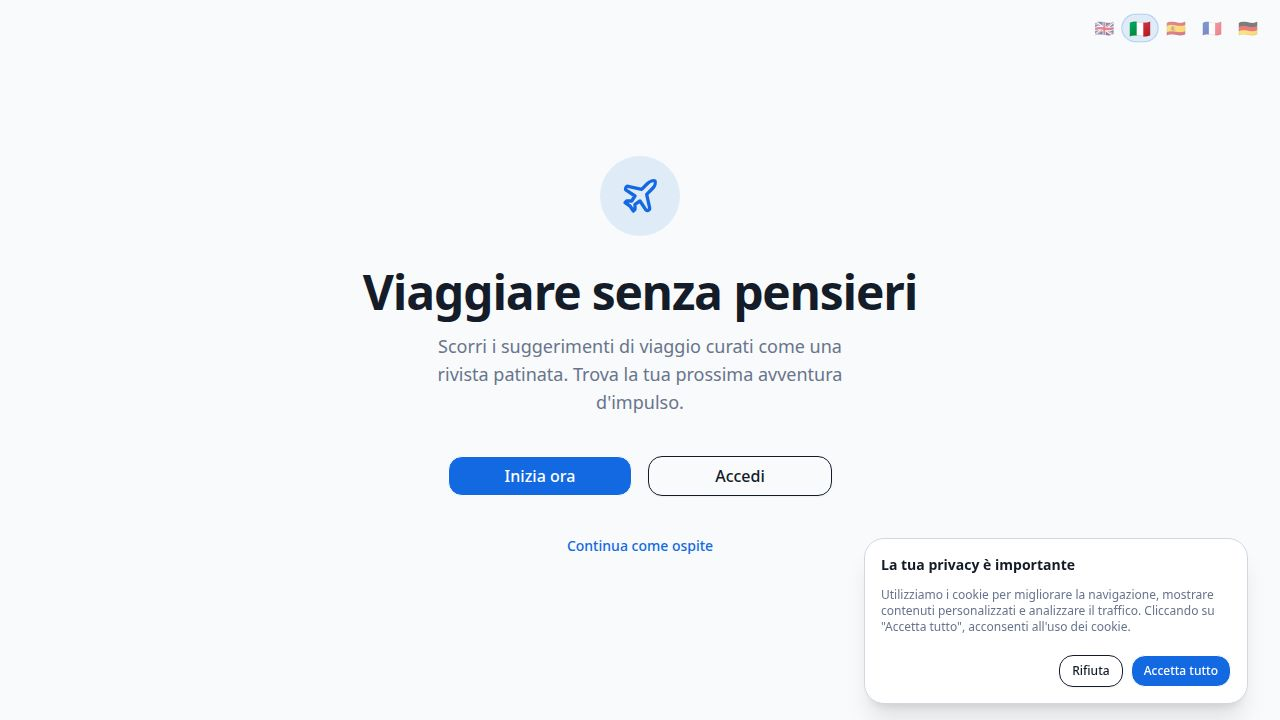
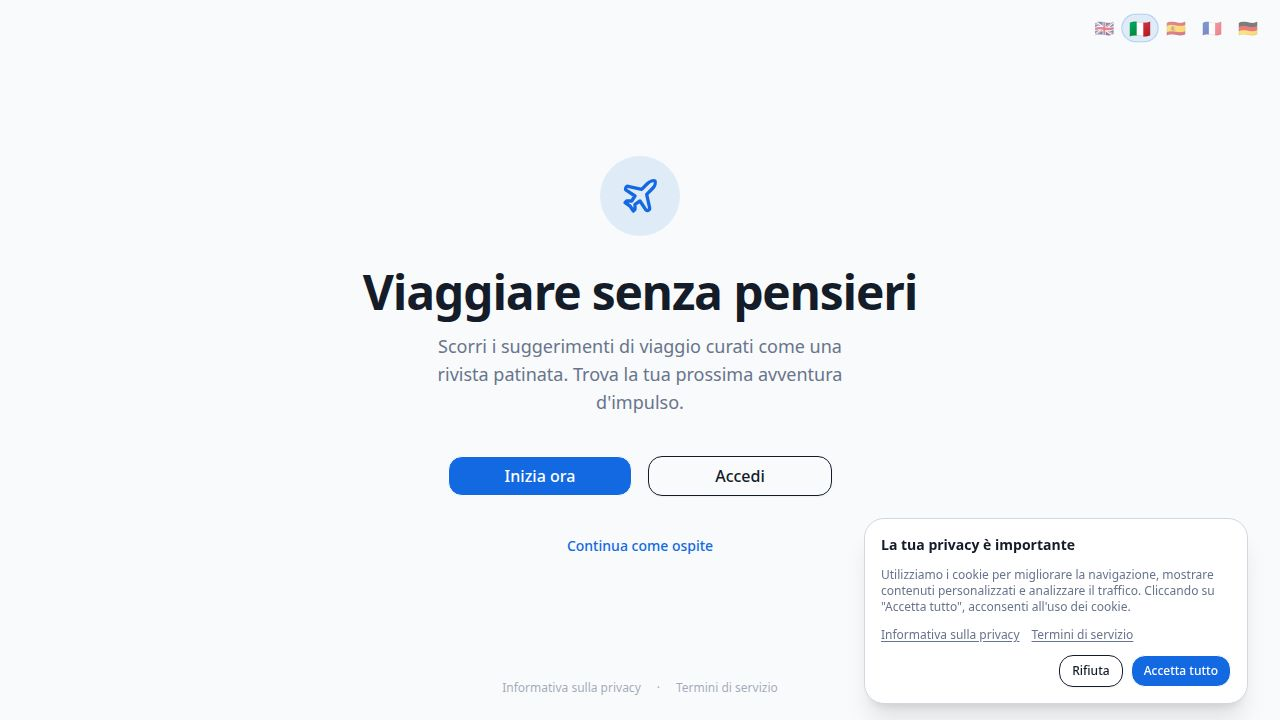
Add option to filter travel suggestions by trip type
Introduce functionality to select between one-way and round-trip travel, updating the API, frontend filters, and trip display components.

Replit-Commit-Author: Agent
Replit-Commit-Session-Id: 40b31528-361d-451d-a8f7-576f1d67a335
Replit-Commit-Checkpoint-Type: full_checkpoint
Replit-Commit-Event-Id: 321ee5e5-2d45-4310-8121-b1066c58884b
Replit-Commit-Screenshot-Url: https://storage.googleapis.com/screenshot-production-us-central1/23379c2e-90ad-4d48-a1c6-92208504a3e2/40b31528-361d-451d-a8f7-576f1d67a335/61Y89dv
Replit-Helium-Checkpoint-Created: true

Changed region(s): [[0.6875, 0.7333, 0.9688, 0.8861], [0.4062, 0.9472, 0.5, 0.9778], [0.5312, 0.9472, 0.5938, 0.9778]]

diff --git a/artifacts/travel-budget/src/components/filter-panel.tsx b/artifacts/travel-budget/src/components/filter-panel.tsx
@@ -38,6 +38,7 @@ export interface TripFilters {
   onlinePayment: boolean;
   elevator: boolean;
   petFriendly: boolean;
+  tripType: "one_way" | "round_trip";
 }
 
 export const DEFAULT_FILTERS: TripFilters = {
@@ -68,6 +69,7 @@ export const DEFAULT_FILTERS: TripFilters = {
   onlinePayment: false,
   elevator: false,
   petFriendly: false,
+  tripType: "round_trip",
 };
 
 export function countActiveFilters(f: TripFilters): number {
@@ -98,6 +100,7 @@ export function countActiveFilters(f: TripFilters): number {
   if (f.onlinePayment) n++;
   if (f.elevator) n++;
   if (f.petFriendly) n++;
+  if (f.tripType === "one_way") n++;
   return n;
 }
 
@@ -114,6 +117,7 @@ export function FilterBar({
   const departure = filters.departureAirport || filters.departureStation || "";
 
   const chips: string[] = [];
+  if (filters.tripType === "one_way") chips.push(`✈️ ${t.filters.oneWay}`);
   if (filters.numberOfChildren > 0) chips.push(`${filters.numberOfChildren} ${t.filters.children.toLowerCase()}`);
   if (filters.numberOfPets > 0) chips.push(`${filters.numberOfPets} ${t.filters.pets.toLowerCase()}`);
   if (filters.flightPreference === "direct") chips.push(t.filters.directOnly);
@@ -199,7 +203,7 @@ export function FilterSheet({
     if (!dep) errs["departure"] = t.filters.missingDeparture;
     if (!arr) errs["arrival"] = t.filters.missingArrival;
     if (!f.departureDate) errs["departureDate"] = t.filters.missingDepartureDate;
-    if (!f.returnDate) errs["returnDate"] = t.filters.missingReturnDate;
+    if (f.tripType !== "one_way" && !f.returnDate) errs["returnDate"] = t.filters.missingReturnDate;
 
     if (f.departureDate && f.returnDate && f.returnDate < f.departureDate) {
       errs["returnDate"] = t.filters.returnBeforeDeparture;
@@ -271,6 +275,35 @@ export function FilterSheet({
         </SheetHeader>
 
         <div ref={contentRef} className="flex-1 overflow-y-auto px-5 py-4 space-y-6">
+
+          {/* ── Tipo viaggio ─────────────────────────────────── */}
+          <div className="space-y-3">
+            <p className="text-sm font-semibold text-foreground">{t.filters.tripTypeLabel}</p>
+            <div className="flex gap-2">
+              {(["round_trip", "one_way"] as const).map((v) => (
+                <button
+                  key={v}
+                  onClick={() => {
+                    setDraft((prev) => ({
+                      ...prev,
+                      tripType: v,
+                      ...(v === "one_way" ? { returnDate: "" } : {}),
+                    }));
+                  }}
+                  className={`flex-1 py-3 rounded-xl border text-sm font-semibold transition-colors ${
+                    draft.tripType === v
+                      ? "border-primary bg-primary/10 text-primary"
+                      : "border-border bg-background text-foreground hover:bg-muted/50"
+                  }`}
+                >
+                  {v === "round_trip" ? `🔄 ${t.filters.roundTrip}` : `✈️ ${t.filters.oneWay}`}
+                </button>
+              ))}
+            </div>
+            <p className="text-xs text-muted-foreground leading-relaxed">
+              {draft.tripType === "one_way" ? t.filters.oneWayHint : t.filters.roundTripHint}
+            </p>
+          </div>
 
           {/* ── Validation banner ───────────────────────────── */}
           {tried && hasErrors && (
@@ -385,15 +418,25 @@ export function FilterSheet({
                 )}
               </div>
               <div>
-                <label className="text-xs text-muted-foreground block mb-1">{t.filters.returnDate}</label>
+                <label className="text-xs text-muted-foreground block mb-1">
+                  {t.filters.returnDate}
+                  {draft.tripType === "one_way" && (
+                    <span className="ml-1.5 text-[10px] bg-orange-100 text-orange-600 px-1.5 py-0.5 rounded-full font-medium">
+                      {t.filters.oneWay}
+                    </span>
+                  )}
+                </label>
                 <input
                   type="date"
                   value={draft.returnDate}
                   min={draft.departureDate || new Date().toISOString().split("T")[0]}
+                  disabled={draft.tripType === "one_way"}
                   onChange={(e) => set("returnDate", e.target.value)}
-                  className={`w-full border rounded-lg px-3 py-2 text-sm bg-background text-foreground transition-colors ${
-                    errors["returnDate"] ? "border-red-400 bg-red-50 focus:ring-red-400" : ""
-                  }`}
+                  className={`w-full border rounded-lg px-3 py-2 text-sm transition-colors ${
+                    draft.tripType === "one_way"
+                      ? "bg-muted text-muted-foreground cursor-not-allowed opacity-50"
+                      : "bg-background text-foreground"
+                  } ${errors["returnDate"] ? "border-red-400 bg-red-50" : ""}`}
                 />
                 {errors["returnDate"] && (
                   <p className="text-xs text-red-500 font-medium mt-1 flex items-center gap-1">

diff --git a/artifacts/api-server/src/routes/trips.ts b/artifacts/api-server/src/routes/trips.ts
@@ -572,6 +572,7 @@ function generateTrip(
   accommodationType: AccommodationType,
   propertyType: string,
   id: string,
+  tripType: "one_way" | "round_trip" = "round_trip",
 ) {
   // ─── Budget is always TOTAL for the whole trip ────────────────
   const budgetPerPerson = Math.floor(budget / numberOfPeople);
@@ -607,15 +608,17 @@ function generateTrip(
   const hotelTotalPerPerson = pricePerNight * numberOfNights;
 
   // ─── Transport cost (per person) ─────────────────────────────
+  const isOneWay = tripType === "one_way";
   const transportBudgetPerPerson = budgetPerPerson - hotelTotalPerPerson;
   if (transportBudgetPerPerson < 40) return null;
 
-  const maxOutbound = Math.floor(transportBudgetPerPerson * 0.52);
-  const minOutbound = Math.max(20, Math.floor(transportBudgetPerPerson * 0.30));
+  // One-way: only one leg, so more budget headroom for outbound
+  const maxOutbound = Math.floor(transportBudgetPerPerson * (isOneWay ? 0.88 : 0.52));
+  const minOutbound = Math.max(20, Math.floor(transportBudgetPerPerson * (isOneWay ? 0.48 : 0.30)));
   if (maxOutbound < minOutbound) return null;
 
   const outboundPrice = randomBetween(minOutbound, maxOutbound);
-  const returnPrice = Math.floor(outboundPrice * (0.80 + Math.random() * 0.35));
+  const returnPrice = isOneWay ? 0 : Math.floor(outboundPrice * (0.80 + Math.random() * 0.35));
   const totalTransportPerPerson = outboundPrice + returnPrice;
   const totalPerPerson = totalTransportPerPerson + hotelTotalPerPerson;
 
@@ -677,6 +680,7 @@ function generateTrip(
     destination: dest.destination,
     country: dest.country,
     departureCity: fromCity,
+    tripType,
     totalPrice,
     pricePerPerson: totalPerPerson,
     transport: {
@@ -690,17 +694,19 @@ function generateTrip(
       from: fromCity,
       to: dest.destination,
     },
-    returnTransport: {
-      type: transportType,
-      company: getCompany(),
-      duration: `${retDurH}h ${retDurM}m`,
-      price: returnPrice,
-      isDirect: isReturnDirect,
-      departureTime: fmt(retDepH, randomBetween(0, 59)),
-      arrivalTime: fmt(retArrH, randomBetween(0, 59)),
-      from: dest.destination,
-      to: fromCity,
-    },
+    ...(isOneWay ? {} : {
+      returnTransport: {
+        type: transportType,
+        company: getCompany(),
+        duration: `${retDurH}h ${retDurM}m`,
+        price: returnPrice,
+        isDirect: isReturnDirect,
+        departureTime: fmt(retDepH, randomBetween(0, 59)),
+        arrivalTime: fmt(retArrH, randomBetween(0, 59)),
+        from: dest.destination,
+        to: fromCity,
+      },
+    }),
     hotel: {
       name: hotelName,
       stars,
@@ -774,6 +780,7 @@ router.post("/trips/surprise", (req, res) => {
         accommodationType as AccommodationType,
         propertyType,
         `surprise-${Date.now()}-${attempt}`,
+        "round_trip",
       );
 
       if (!trip) continue;
@@ -810,6 +817,7 @@ router.post("/trips/generate", async (req, res) => {
     minHotelRating = null,
     hotelStarsMin = null,
     hotelStarsMax = null,
+    tripType = "round_trip",
   } = req.body;
 
   // ─── Freemium: check search limit for authenticated users ──────
@@ -867,6 +875,7 @@ router.post("/trips/generate", async (req, res) => {
       accommodationType as AccommodationType,
       propertyType,
       `trip-${Date.now()}-${attempts}`,
+      tripType as "one_way" | "round_trip",
     );
 
     if (!trip) continue;

diff --git a/artifacts/travel-budget/src/lib/i18n.tsx b/artifacts/travel-budget/src/lib/i18n.tsx
@@ -183,6 +183,11 @@ const en = {
     pets: "Pets",
     departureDate: "Departure date",
     returnDate: "Return date",
+    tripTypeLabel: "Trip type",
+    oneWay: "One-way",
+    roundTrip: "Round-trip",
+    oneWayHint: "Planning your one-way adventure ✈️",
+    roundTripHint: "Building your round-trip journey 🔄",
     nights: "Nights",
     flightType: "Flight type",
     directOnly: "Direct only",
@@ -513,6 +518,11 @@ const it: Translations = {
     pets: "Animali",
     departureDate: "Data partenza",
     returnDate: "Data ritorno",
+    tripTypeLabel: "Tipo di viaggio",
+    oneWay: "Solo andata",
+    roundTrip: "Andata e ritorno",
+    oneWayHint: "Pianificazione della tua avventura di sola andata ✈️",
+    roundTripHint: "Costruiamo il tuo viaggio andata e ritorno 🔄",
     nights: "Notti",
     flightType: "Tipo di volo",
     directOnly: "Solo diretto",
@@ -843,6 +853,11 @@ const es: Translations = {
     pets: "Mascotas",
     departureDate: "Fecha de salida",
     returnDate: "Fecha de regreso",
+    tripTypeLabel: "Tipo de viaje",
+    oneWay: "Solo ida",
+    roundTrip: "Ida y vuelta",
+    oneWayHint: "Planificando tu aventura de solo ida ✈️",
+    roundTripHint: "Construyendo tu viaje de ida y vuelta 🔄",
     nights: "Noches",
     flightType: "Tipo de vuelo",
     directOnly: "Solo directo",
@@ -1173,6 +1188,11 @@ const fr: Translations = {
     pets: "Animaux",
     departureDate: "Date de départ",
     returnDate: "Date de retour",
+    tripTypeLabel: "Type de voyage",
+    oneWay: "Aller simple",
+    roundTrip: "Aller-retour",
+    oneWayHint: "Planification de votre aventure aller simple ✈️",
+    roundTripHint: "Construction de votre voyage aller-retour 🔄",
     nights: "Nuits",
     flightType: "Type de vol",
     directOnly: "Direct uniquement",
@@ -1503,6 +1523,11 @@ const de: Translations = {
     pets: "Haustiere",
     departureDate: "Abreisedatum",
     returnDate: "Rückreisedatum",
+    tripTypeLabel: "Reiseart",
+    oneWay: "Nur Hinfahrt",
+    roundTrip: "Hin- und Rückfahrt",
+    oneWayHint: "Planung Ihres Einwegabenteuers ✈️",
+    roundTripHint: "Erstellung Ihrer Hin- und Rückreise 🔄",
     nights: "Nächte",
     flightType: "Flugart",
     directOnly: "Nur Direktflüge",

diff --git a/artifacts/travel-budget/src/pages/discover.tsx b/artifacts/travel-budget/src/pages/discover.tsx
@@ -470,6 +470,7 @@ export default function Discover() {
           minHotelRating: f.minHotelRating,
           hotelStarsMin: f.hotelStarsMin !== 1 ? f.hotelStarsMin : null,
           hotelStarsMax: f.hotelStarsMax !== 5 ? f.hotelStarsMax : null,
+          tripType: f.tripType || "round_trip",
           hotelAmenities: [
             ...(f.freeCancellation ? ["free_cancellation"] : []),
             ...(f.breakfastIncluded ? ["breakfast"] : []),
@@ -553,6 +554,9 @@ export default function Discover() {
           <div className="flex flex-col items-center gap-3 px-8 text-center">
             <Plane className="w-14 h-14 text-primary mb-1 animate-bounce" />
             <p className="text-muted-foreground font-medium">{loadingMsgRef.current}</p>
+            <p className="text-xs text-primary font-semibold mt-3 bg-primary/10 px-4 py-1.5 rounded-full">
+              {filters.tripType === "one_way" ? t.filters.oneWayHint : t.filters.roundTripHint}
+            </p>
           </div>
         </div>
         <FilterSheet open={filterOpen} filters={filters} onClose={() => setFilterOpen(false)} onApply={handleApplyFilters} />
@@ -889,12 +893,21 @@ function TripCard({
         )}
 
         <div className="absolute bottom-0 left-0 right-0 p-5 text-white pointer-events-none">
-          {savingsMsg && isTop && (
-            <div className="mb-2.5 inline-flex items-center gap-1.5 bg-green-500/90 backdrop-blur-md text-white text-xs font-bold px-3 py-1.5 rounded-full shadow-lg">
-              <span>💰</span>
-              <span>{savingsMsg}</span>
-            </div>
-          )}
+          <div className="flex items-center gap-2 mb-2.5 flex-wrap">
+            {trip.tripType && (
+              <div className={`inline-flex items-center gap-1 backdrop-blur-md text-white text-xs font-bold px-2.5 py-1.5 rounded-full ${
+                trip.tripType === "one_way" ? "bg-primary/80" : "bg-blue-600/80"
+              }`}>
+                <span>{trip.tripType === "one_way" ? `✈️ ${t.filters.oneWay}` : `🔄 ${t.filters.roundTrip}`}</span>
+              </div>
+            )}
+            {savingsMsg && isTop && (
+              <div className="inline-flex items-center gap-1.5 bg-green-500/90 backdrop-blur-md text-white text-xs font-bold px-3 py-1.5 rounded-full shadow-lg">
+                <span>💰</span>
+                <span>{savingsMsg}</span>
+              </div>
+            )}
+          </div>
           <h2 className="text-3xl font-bold mb-0.5">{trip.destination}</h2>
           <p className="text-white/80 font-medium mb-3">{trip.country}</p>
           <div className="flex gap-2.5 mb-3">